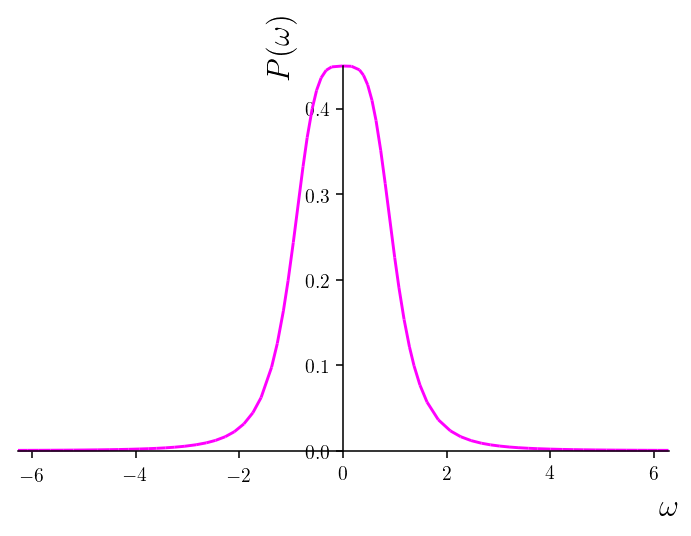
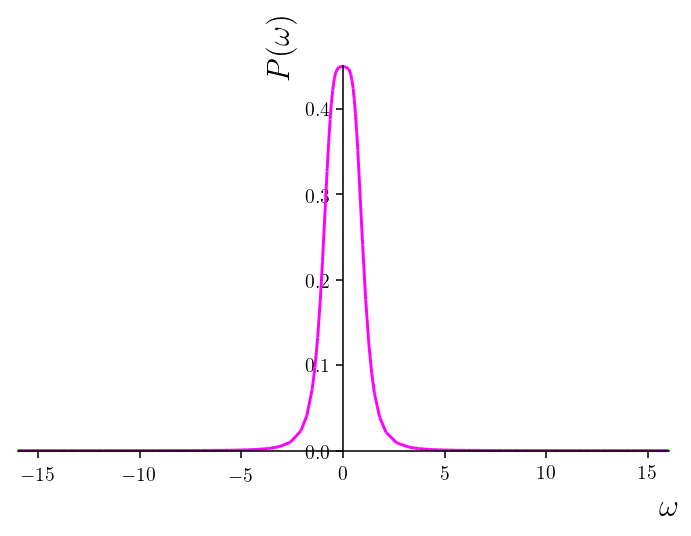
comparison fourier

diff --git a/comp/jupyter/detect.py b/comp/jupyter/detect.py
@@ -17,8 +17,6 @@
 # ## Detector model: Kiukas / Ruschhaupt / Schmidt / Werner
 
 # %%
-# EDIT
-
 from sympy import *
 #from sympy.physics.matrices import mdft
 from sympy.physics.quantum import TensorProduct
@@ -348,13 +346,14 @@ abs(fhatpsiomega(omega))**2
 integrate(abs(fhatpsiomega(omega))**2, (omega, -oo, +oo))
 
 # %%
-plot(abs(fhatpsiomega(omega))**2, (omega, -2*pi, 2*pi), line_color='magenta',
+plot(abs(fhatpsiomega(omega))**2, (omega, -16, 16), line_color='magenta',
      xlabel=r'$\omega$', ylabel=r'$P(\omega)$')
 
 # %%
 # graphical comparison with a normalized gaussian
 sigma = 1.0
-plot((1/(sqrt(2*pi)*sigma)) * exp(-omega**2/(2*(sigma)**2)), (omega, -2*pi, 2*pi), line_color='magenta')
+plot((1/(sqrt(2*pi)*sigma)) * exp(-omega**2/(2*(sigma)**2)), (omega, -2*pi, 2*pi), 
+     line_color='magenta', adaptive=False)
 
 # %% [markdown]
 # ## (Discrete) Page-Wootters model
@@ -382,6 +381,9 @@ oeigenvalues, oeigenvectors = np.linalg.eig(Omega)
 
 # %%
 np.round(oeigenvalues)
+
+# %%
+oeigenvectors[15]
 
 # %%
 H = np.array([
@@ -584,22 +586,24 @@ plt.ylabel(r'$|\!|\langle t | \Phi \rangle\!\rangle|\!|_{S}^2$')
 plt.plot(times, prob_detect * 16 / np.pi, 'gs')
 
 # %%
-detect_fft = \
-    np.kron(F, np.eye(2)) @ prob_detect_v
-detect_fft = detect_fft / norm(detect_fft)
+detect_fft = np.kron(F, np.eye(2)) @ prob_detect_v
+
+# %%
+# unitary Frourier op.
+norm(detect_fft)
 
 # %%
 prob_detect_fft = np.zeros(32)
 for o in range(32):
     prob_detect_fft[o] = \
-        np.abs(detect_fft[2*o]**2) + \
-        np.abs(detect_fft[2*o + 1]**2)
+        np.abs(detect_fft[2*o])**2 + \
+        np.abs(detect_fft[2*o + 1])**2
 
 # %%
 # Arrays are "rolled" because the second half
 # of the spectrum is identified with
 # negative frequencies.
-plt.plot(range(-16, 16), np.roll(prob_detect_fft, -16), 'y^')
+plt.plot(range(-16, 16), np.roll(prob_detect_fft, -16), 'm^')
 
 # %%
 S_t = stats.entropy(prob_detect)

diff --git a/tex/detect/pwdetect.tex b/tex/detect/pwdetect.tex
@@ -463,3 +463,12 @@ the contuinuous and not explicitly Page--Wooters model of
   }
   \label{fig:2l_pw_detect_prob}
 \end{figure}
+
+Switching to the frequency (and, therefore, energy) domain,
+the discrete Fourier transform yields another proper vector
+$\Dket{\tilde{\Phi}}$ of $\pwspace$:
+\begin{equation}
+  \Dket{\tilde{\Phi}} = F \ox \idop_s \dket{\Psi} \, \text{.}
+\end{equation}
+This vector's numerical components give the probability amplitude
+relative to eigenstates of the frequency operator $\hat{\Omega}$
